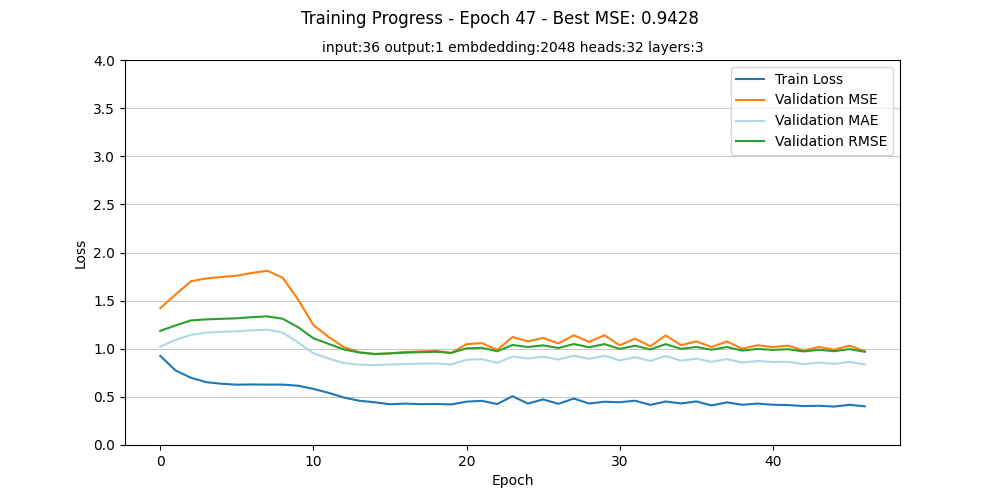
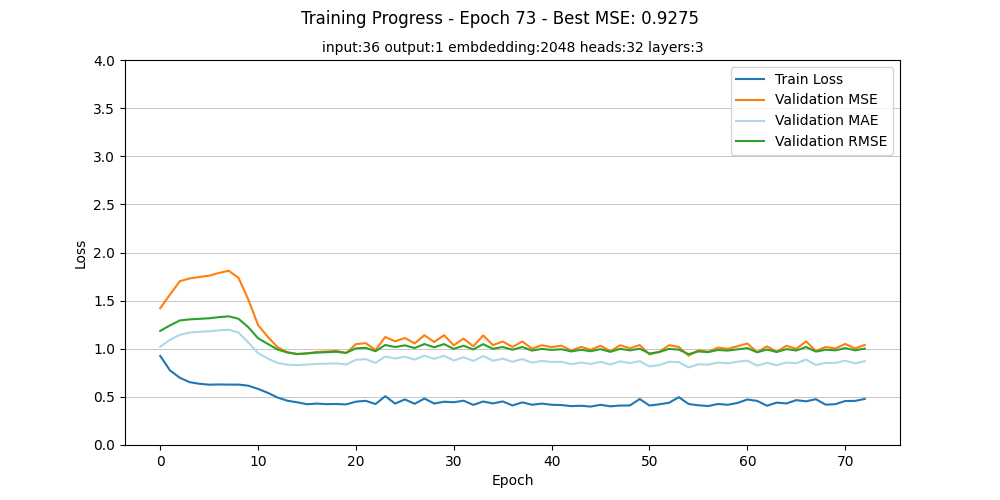
mask NOW working

diff --git a/_INFORMER/model_configuration.py b/_INFORMER/model_configuration.py
@@ -130,6 +130,9 @@ class ProbAttention(nn.Module):
         
         scores_top, index = self._prob_QK(queries, keys, u, U_part)
 
+        if self.mask_flag and attn_mask is not None:
+            scores_top = scores_top.masked_fill(attn_mask[:, :, :U_part], float('-inf'))
+
         scale = self.scale or 1./np.sqrt(head_dim)
         if scale is not None:
             scores_top = scores_top * scale
@@ -216,19 +219,19 @@ class Informer(nn.Module):
         
         self.decoder = nn.Linear(d_model, output_dim)
 
-    def forward(self, src):
-        # src shape: (batch_size, sequence_length, input_dim)
-        src = self.embedding(src)  # (batch_size, sequence_length, d_model)
+    def forward(self, src, mask=None):
+        src = self.embedding(src)
         src = self.pos_encoder(src)
         
         for enc_layer in self.encoder_layers:
-            src = enc_layer(src)
+            # src = enc_layer(src)
+            src = enc_layer(src, mask)
         
-        # Use the last encoder output for single-step prediction
         last_hidden = src[:, -1, :]
         output = self.decoder(last_hidden)
         
-        return output  # (batch_size, output_dim)
+        return output
+
 
 # Usage:
 # model = Informer(input_dim=X_train.shape[2], output_dim=10, d_model=512, n_heads=8, n_layers=3, dropout=0.1)

diff --git a/_INFORMER/_MAIN.py b/_INFORMER/_MAIN.py
@@ -47,7 +47,7 @@ LAYER_COUNT = 3 # number of layers
 #
 # Training parameters
 BATCH_SIZE = 32 # the model processes BATCH_SIZE different sequences of INPUT_MONTHS months each at a time.
-LEARNING_RATE = 0.001
+LEARNING_RATE = 0.0001
 PATIENCE = 50 # how many epochs the validation loss should not improve before the training stops
 DROPOUT_RATE = 0.2
 DEFAULTS_EPOCHS = 1000
@@ -72,6 +72,10 @@ else:
     dataset_training = pd.read_csv('dataset/dataset_training.csv', index_col=0, parse_dates=True)
 
 data_tensor = torch.tensor(dataset_training.values, dtype=torch.float32)
+
+def create_mask(size):
+    mask = torch.triu(torch.ones(size, size), diagonal=1).bool()
+    return mask.to(device)
 
 def create_sequences(data, input_length, output_length):
     xs, ys = [], []
@@ -144,6 +148,7 @@ val_maes = []
 
 # Training loop
 print("Starting training...")
+mask = create_mask(INPUT_MONTHS)
 for epoch in range(EPOCHS):
     model.train()
     epoch_loss = 0
